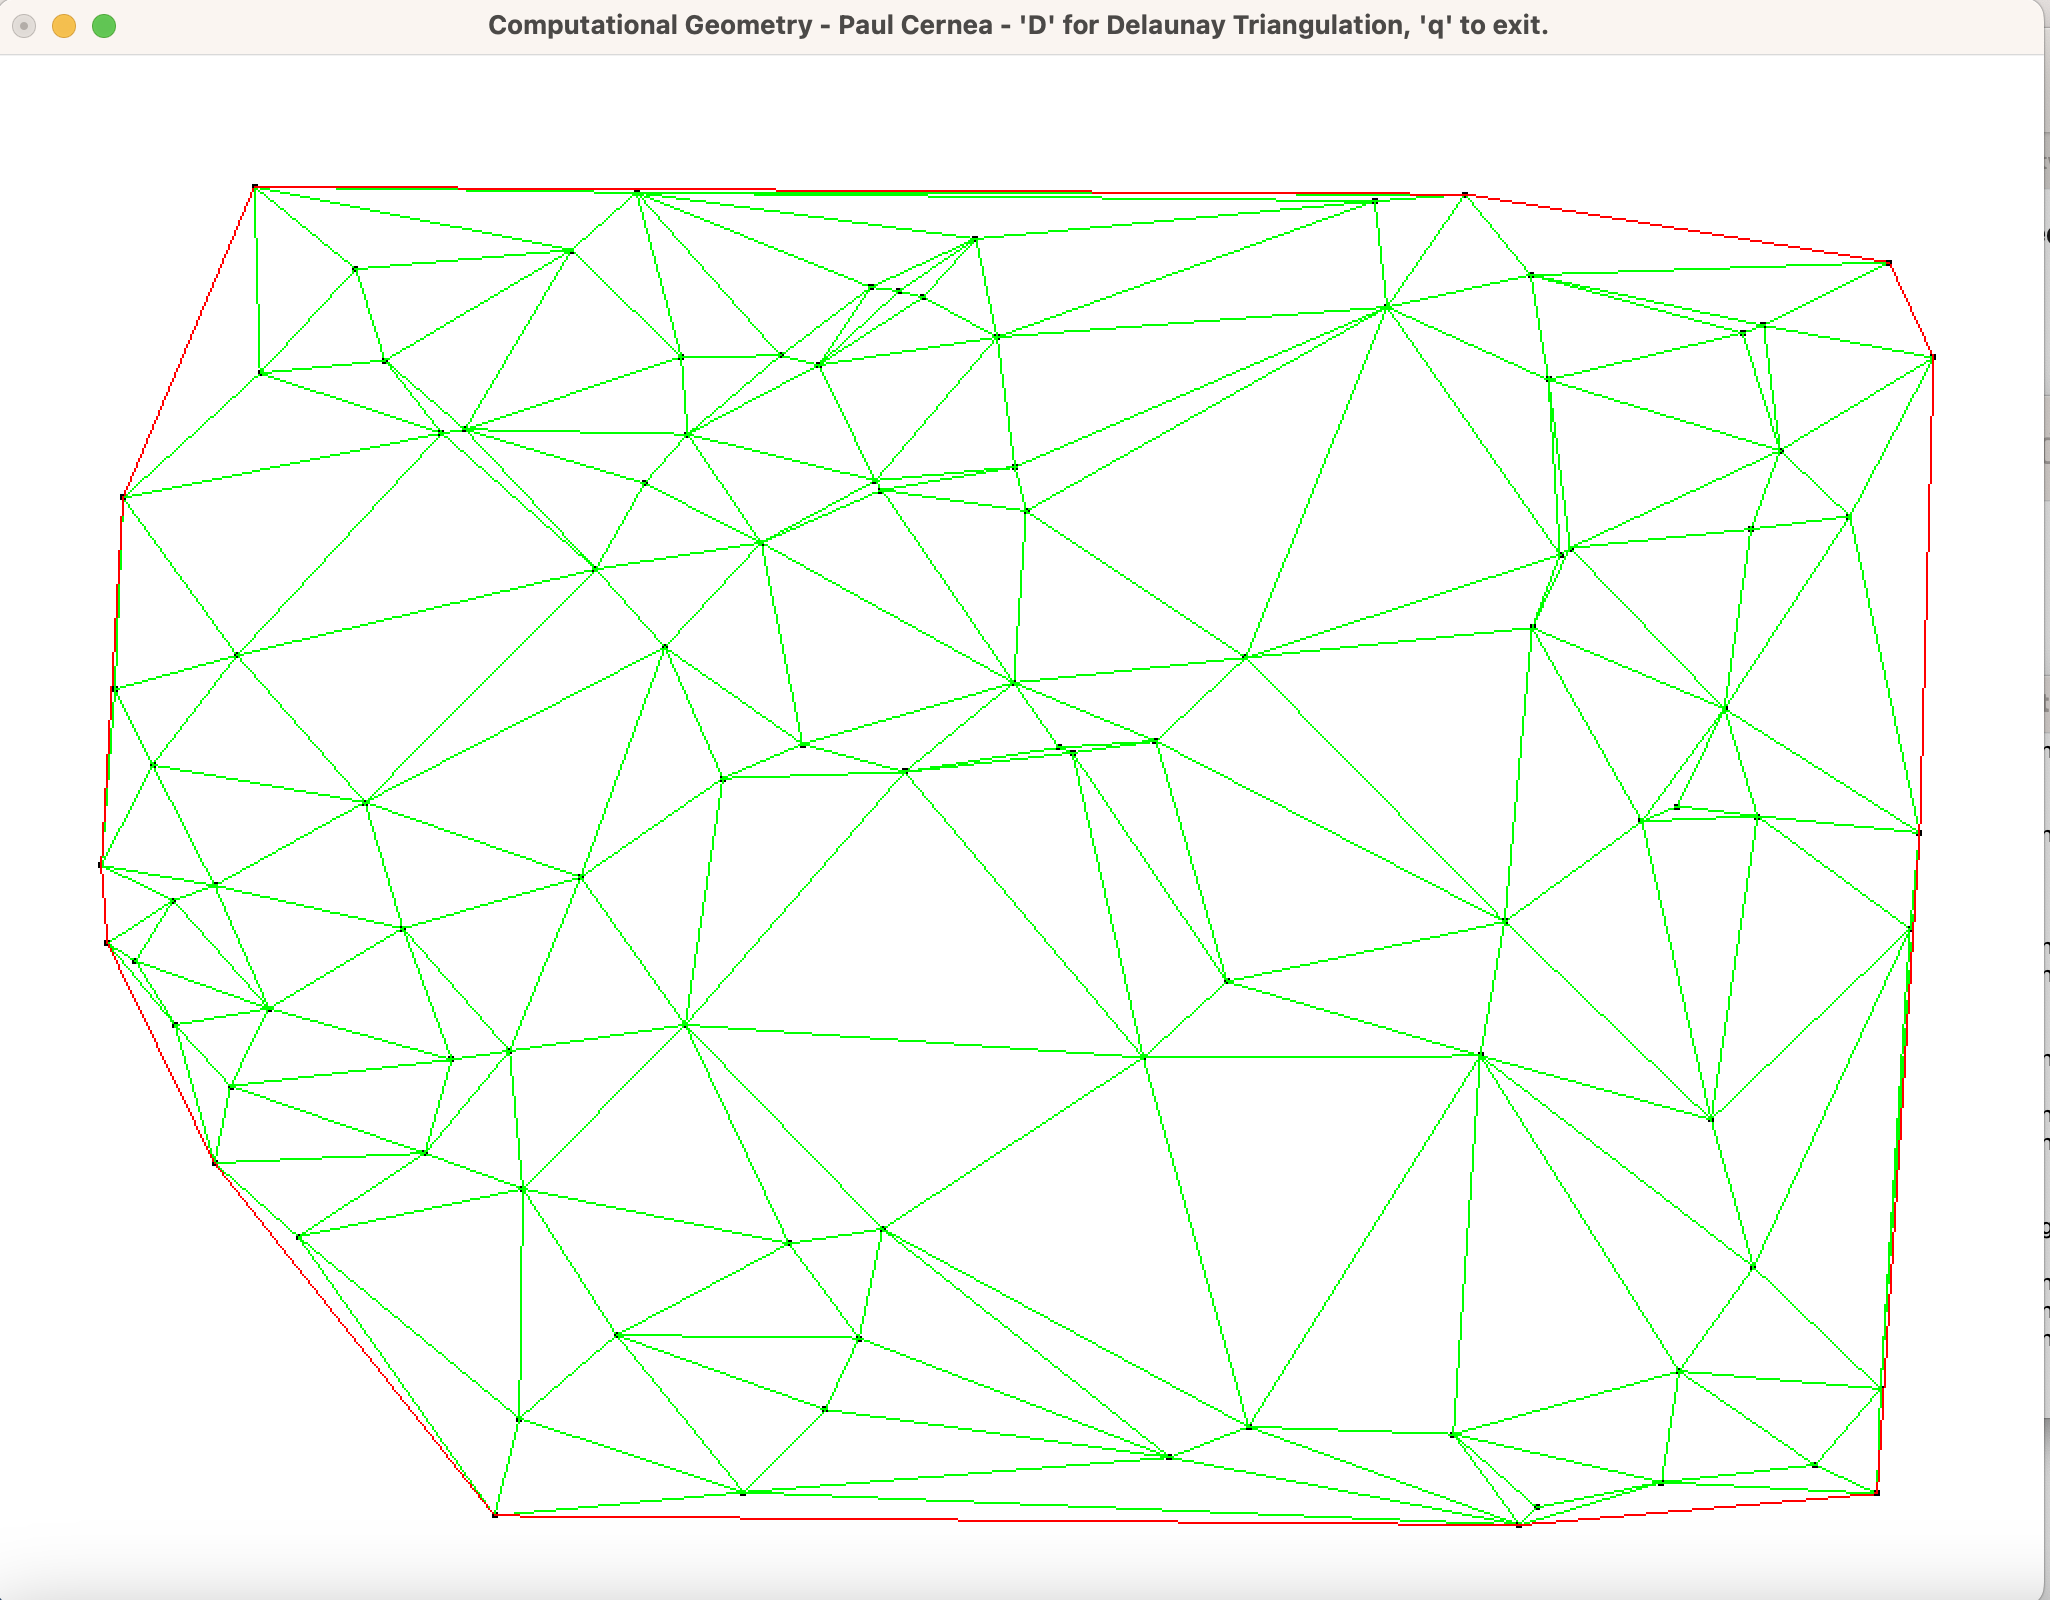
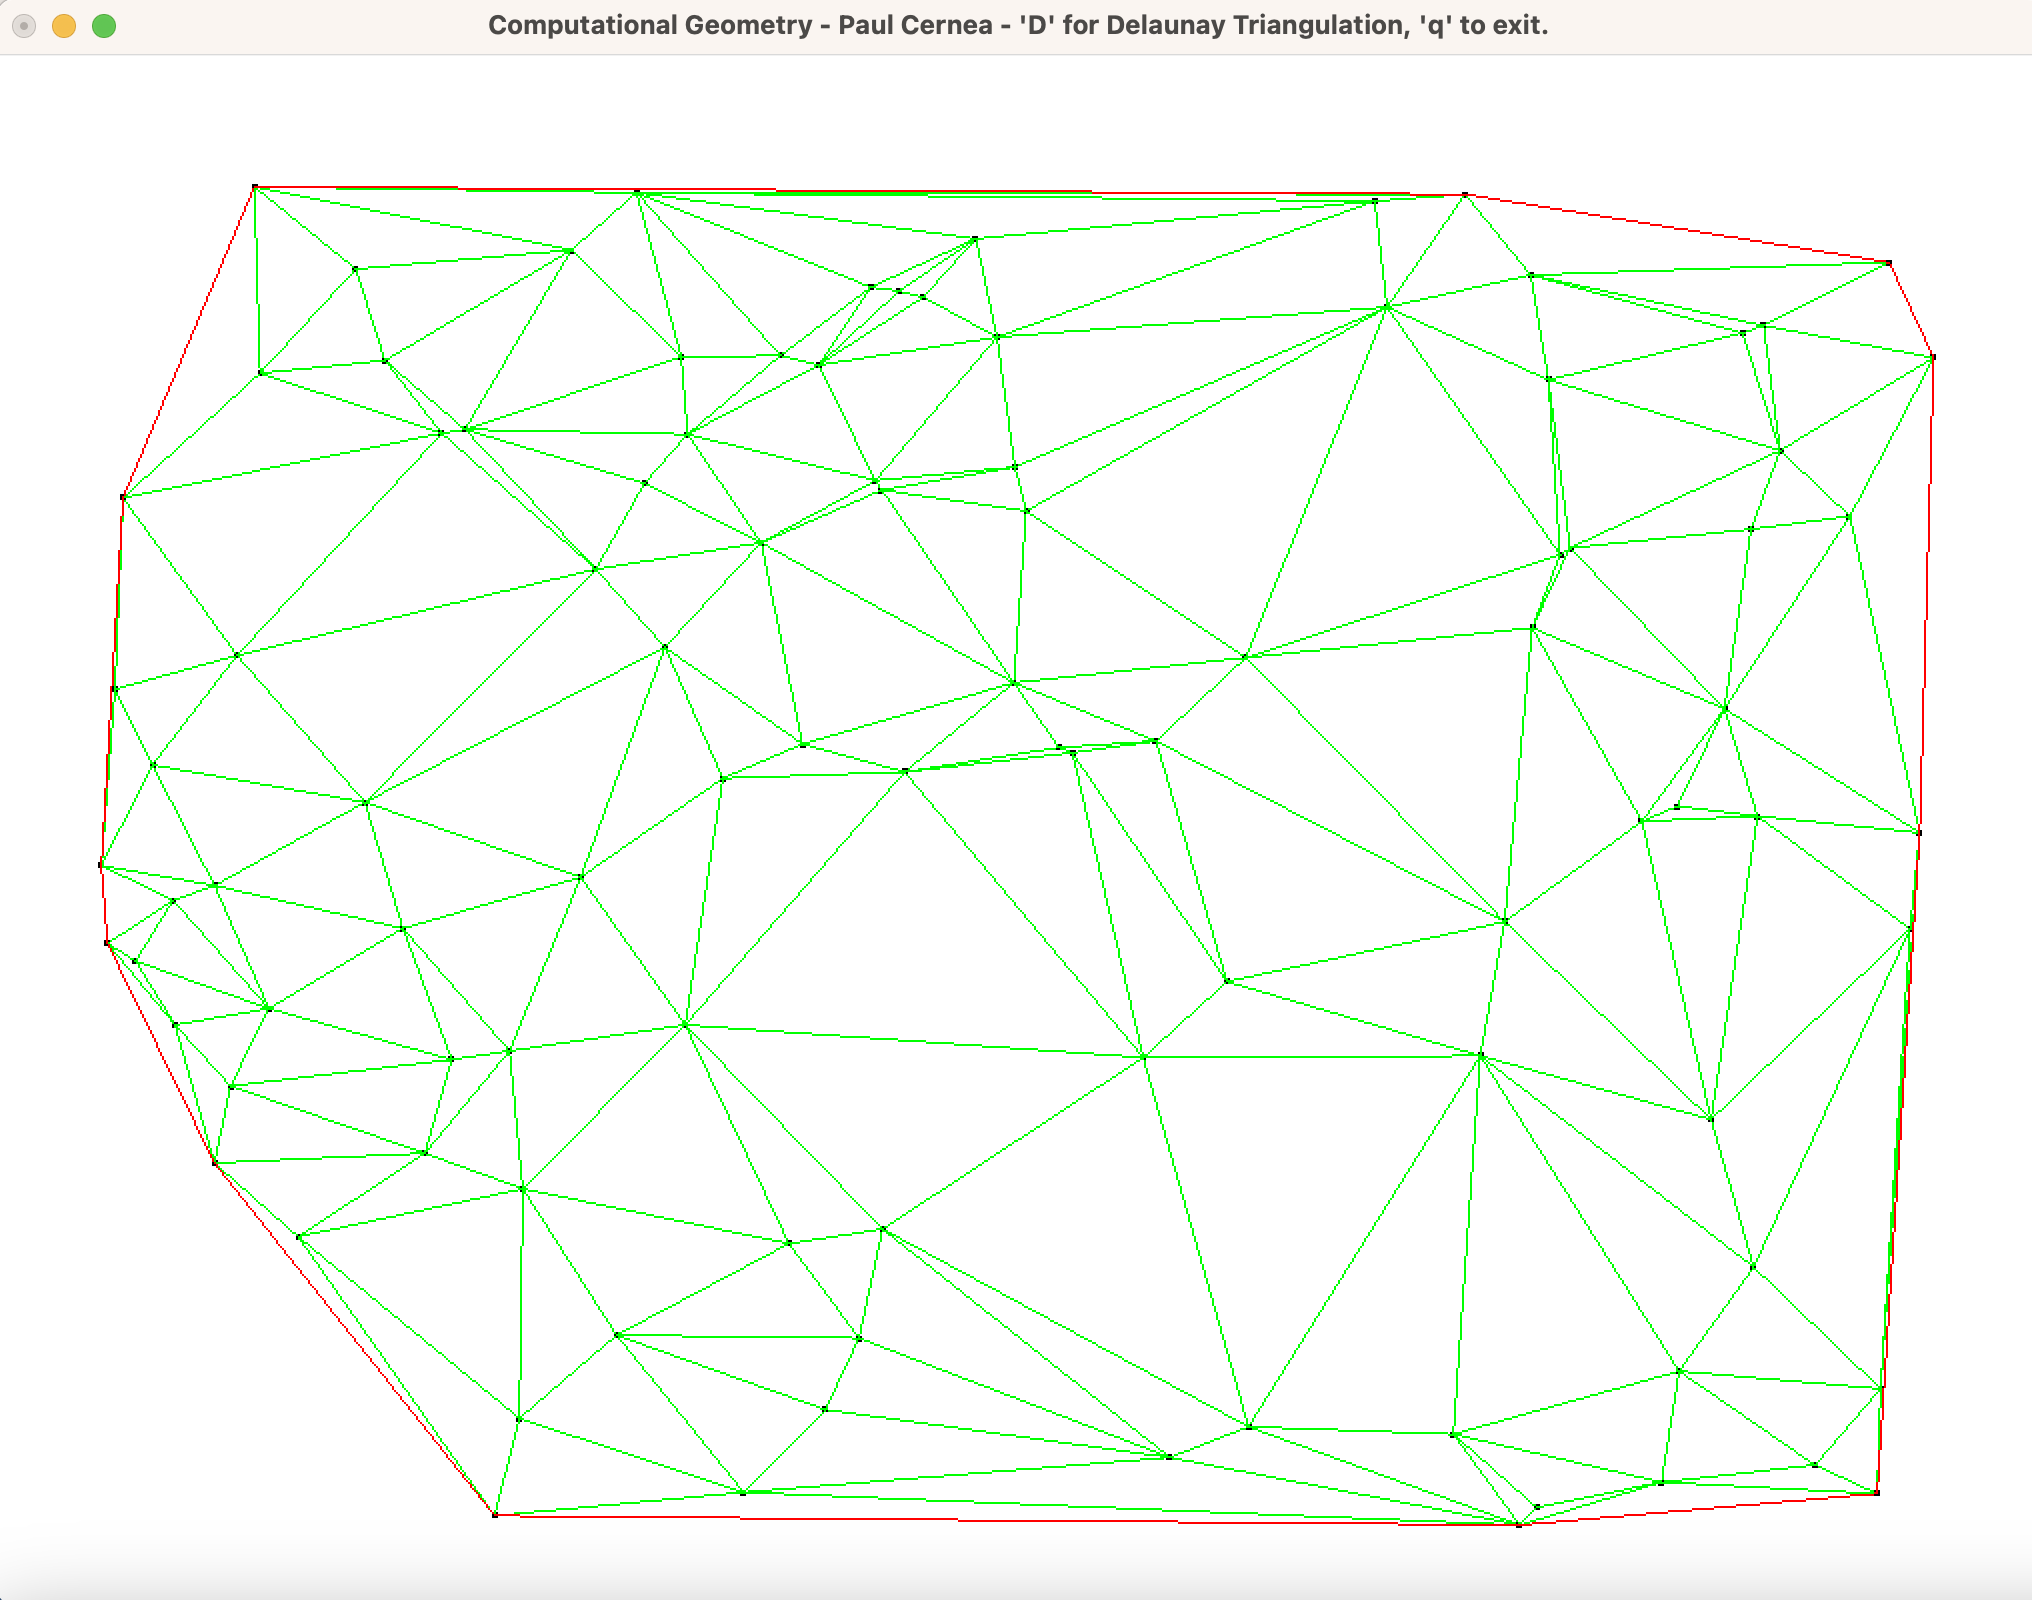
Use images for readme buttons.
Use images for readme buttons.

diff --git a/README.md b/README.md
@@ -7,16 +7,16 @@
 
 <p>
   <button>
-  <a href="https://github.com/gitpaulc/Coding-Samples/tree/dev/computational_geometry" alt="Computational Geometry">Geometry</a>
+  <a href="https://github.com/gitpaulc/Coding-Samples/tree/dev/computational_geometry" alt="Computational Geometry"><img alt="Computational Geometry" src="ui/geometry.png" height="20%" width="10%"/></a>
   </button>
   <button>
-  <a href="https://github.com/gitpaulc/Coding-Samples/tree/dev/graphing_math" alt="Graphing Math">Graphing</a>
+  <a href="https://github.com/gitpaulc/Coding-Samples/tree/dev/graphing_math" alt="Graphing Math"><img alt="Graphing Math" src="ui/graphing.png" height="20%" width="10%"/></a>
   </button>
   <button>
-  <a href="https://github.com/gitpaulc/Coding-Samples/tree/dev/computational_biology" alt="Computational Biology">Biology</a>
+  <a href="https://github.com/gitpaulc/Coding-Samples/tree/dev/computational_biology" alt="Computational Biology"><img alt="ComputationalBiology" src="ui/biology.png" height="20%" width="10%"/></a>
   </button>
   <button>
-  <a href="https://github.com/gitpaulc/Coding-Samples/tree/dev/mesh_renderer" alt="Mesh Renderer">Meshing</a>
+  <a href="https://github.com/gitpaulc/Coding-Samples/tree/dev/mesh_renderer" alt="Mesh Renderer"><img alt="MeshRenderer" src="ui/meshing.png" height="20%" width="10%"/></a>
   </button>
 </p>
 
